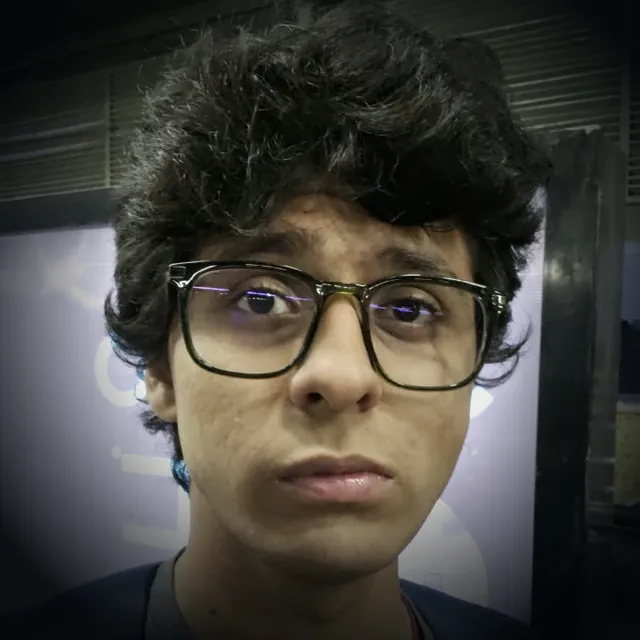
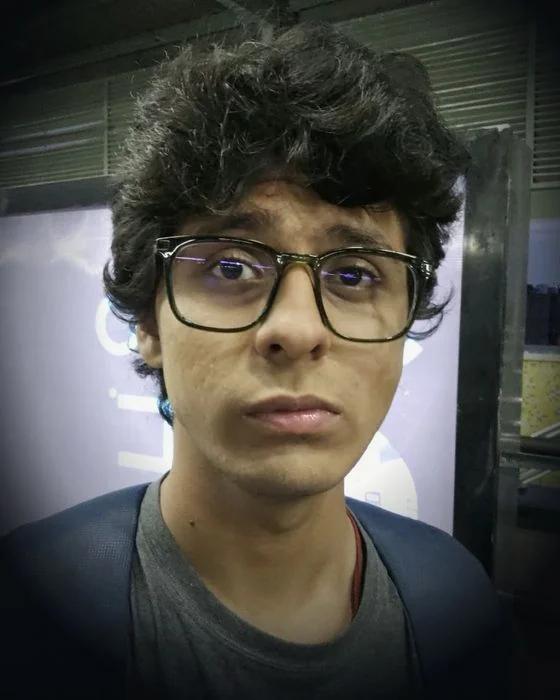
feat(portrait): re-crop portrait to 4:5 280x350 ratio

diff --git a/src/components/PortraitSlot.tsx b/src/components/PortraitSlot.tsx
@@ -7,18 +7,18 @@ export function PortraitSlot() {
         <source srcSet="/portrait.avif" type="image/avif" />
         <img
           src="/portrait.webp"
-          width={320}
-          height={320}
+          width={280}
+          height={350}
           loading="lazy"
           alt={`${SITE.name}, ${SITE.credential}`}
-          className="w-80 h-80 object-cover border border-hairline"
+          className="w-[280px] h-[350px] shrink-0 object-cover border border-hairline"
         />
       </picture>
     );
   }
   return (
     <div
-      className="w-80 h-80 bg-strata border border-hairline flex flex-col justify-end p-6"
+      className="w-[280px] h-[350px] shrink-0 bg-strata border border-hairline flex flex-col justify-end p-6"
       role="img"
       aria-label={`${SITE.name}, ${SITE.credential}`}
     >
